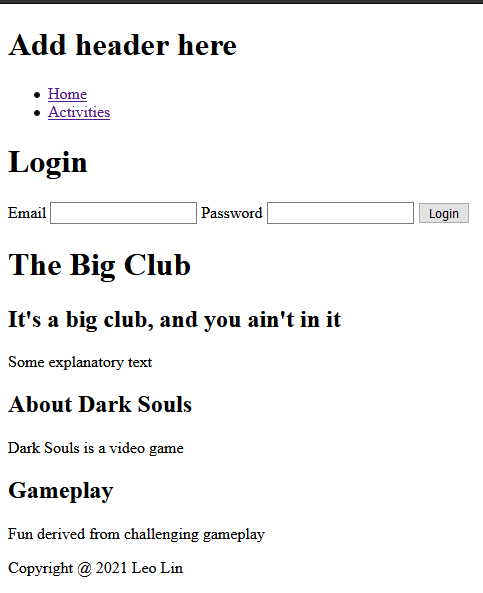
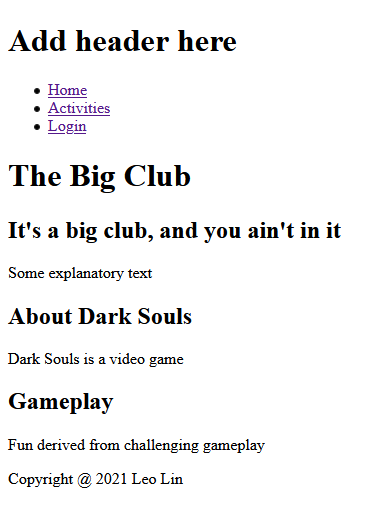
changes

diff --git a/clubProject/club.css b/clubProject/club.css
@@ -1,0 +1,43 @@
+header
+{
+    font-family: "Times New Roman", "seriff";
+    text-align: center;
+}
+
+body
+{
+    background-color: gray;
+    margin: 10px;
+    padding: 10px;
+}
+
+nav
+{
+    background-color: silver;
+    margin: 10px;
+    padding: 10px;
+    max-width: 150px;
+    border-style: solid;
+}
+
+nav > ul li
+{
+    list-style-type: none;
+}
+
+main
+{
+    background-color: silver;
+    margin: 10px;
+    padding: 10px;
+}
+
+ul li:active
+{
+    background-color: white;
+}
+
+footer
+{
+    text-align: center;
+}

diff --git a/clubProject/club_activities.html b/clubProject/club_activities.html
@@ -1,6 +1,7 @@
 <!DOCTYPE html>
 <html lang="en">
     <head>
+        <link rel="stylesheet" href="club.css">
         <title>Add title here</title>
     </head>
 

diff --git a/clubProject/index.html b/clubProject/index.html
@@ -1,6 +1,7 @@
 <!DOCTYPE html>
 <html lang="en">
     <head>
+        <link rel="stylesheet" href="club.css">
         <title>Add title here</title>
     </head>
 

diff --git a/clubProject/login.html b/clubProject/login.html
@@ -1,6 +1,7 @@
 <!DOCTYPE html>
 <html lang="en">
     <head>
+        <link rel="stylesheet" href="club.css">
         <title>Add title here</title>
     </head>
 

diff --git a/README.md b/README.md
@@ -5,35 +5,145 @@
 
 ## Question 1
 ## (a)
+![1a.PNG](images/1a.PNG)
 ## (b)
-    (1) no
-    (2) no
-    (3) no
-* index.html
-* club_activities.html
+    1. no
+    2. no
+    3. no
+
+    index.html
+    club_activities.html
 ## (c)
+![1c.PNG](images/1c.PNG)
 ## (d)
+![1d.PNG](images/1d.PNG)
 ## (e)
+![1e.PNG](images/1e.PNG)
 
 ## Question 2
 ## (a)
     we should nest <header> outside <main> and inside <body> to serve an introductory content for the whole page
 ## (b)
-    we should nest <footer> outside <main> and as the last item in <body> because the copyright should apply to the whole page
+    we should nest <footer> outside <main> and as the last item in <body> because the copyright info shouldn't be in <main>
 ## (c)
+![2c.PNG](images/2c.PNG)
 ## (d)
 ```html
+<!DOCTYPE html>
+<html lang="en">
+    <head>
+        <title>Add title here</title>
+    </head>
 
+    <body>
+        <header>
+            <h1>Add header here</h1>
+        </header>
+
+        <nav>
+            <ul>
+                <li class="active"><a href="index.html">Home</a></li>
+                <li><a href="club_activities.html">Activities</a></li>
+                <li><a href="login.html">Login</a></li>
+            </ul>
+        </nav>
+
+        <main>
+            <h1>The Big Club</h1>
+
+            <h2>It's a big club, and you ain't in it</h2>
+            <p>
+                Some explanatory text
+            </p>
+
+            <h2>About Dark Souls</h2>
+            <p>
+                Dark Souls is a video game           
+            </p>
+
+            <h2>Gameplay</h2>
+            <p>
+                Fun derived from challenging gameplay
+            </p>
+        </main>
+
+        <footer>Copyright @ 2021 Leo Lin</footer>
+    </body>
+</html>
+```
 
 ## Question 3
 ## (a)
+    1. "hello" is a string, not an int, NaN means "not a number"
+    2. parse everything before the first char as int if possible
+    3. parse the first 2 things as int if possible
+    4. no, because it stops parsing after reading 'h'
+![3a.PNG](images/3a.PNG)
 ## (b)
+![3b.PNG](images/3b.PNG)
 ## (c)
+    1. yes
+    2. "'It'" is closed between a pair of '', but there isn't a second pair of '' to close everything after it, so an error occurs
+    3. '\' indicates the next character should be treated specially, so the ' will be treated as part of the string
+![3c.PNG](images/3c.PNG)
 ## (d)
+    1. store every char in name as uppercase in uname
+    2. store every char in name as lowercase in lname
+    3. they check if the uname/lname includes 'A'/'i'
+![3d.PNG](images/3d.PNG)
 ## (e)
-
+![3e.PNG](images/3e.PNG)
 ## Question 4
 ## (a)
+    Times New Roman
 ## (b)
+![4b.PNG](images/4b.PNG)
 ## (c)
+![4c.PNG](images/4c.PNG)
 ## (d)
+![4d.PNG](images/4d.PNG)
+```css
+header
+{
+    font-family: "Times New Roman", "seriff";
+    text-align: center;
+}
+
+body
+{
+    background-color: gray;
+    margin: 10px;
+    padding: 10px;
+}
+
+nav
+{
+    background-color: silver;
+    margin: 10px;
+    padding: 10px;
+    max-width: 150px;
+    border-style: solid;
+}
+
+nav > ul li
+{
+    list-style-type: none;
+}
+
+main
+{
+    background-color: silver;
+    margin: 10px;
+    padding: 10px;
+}
+
+ul li:active
+{
+    background-color: white;
+}
+
+footer
+{
+    text-align: center;
+}
+```
